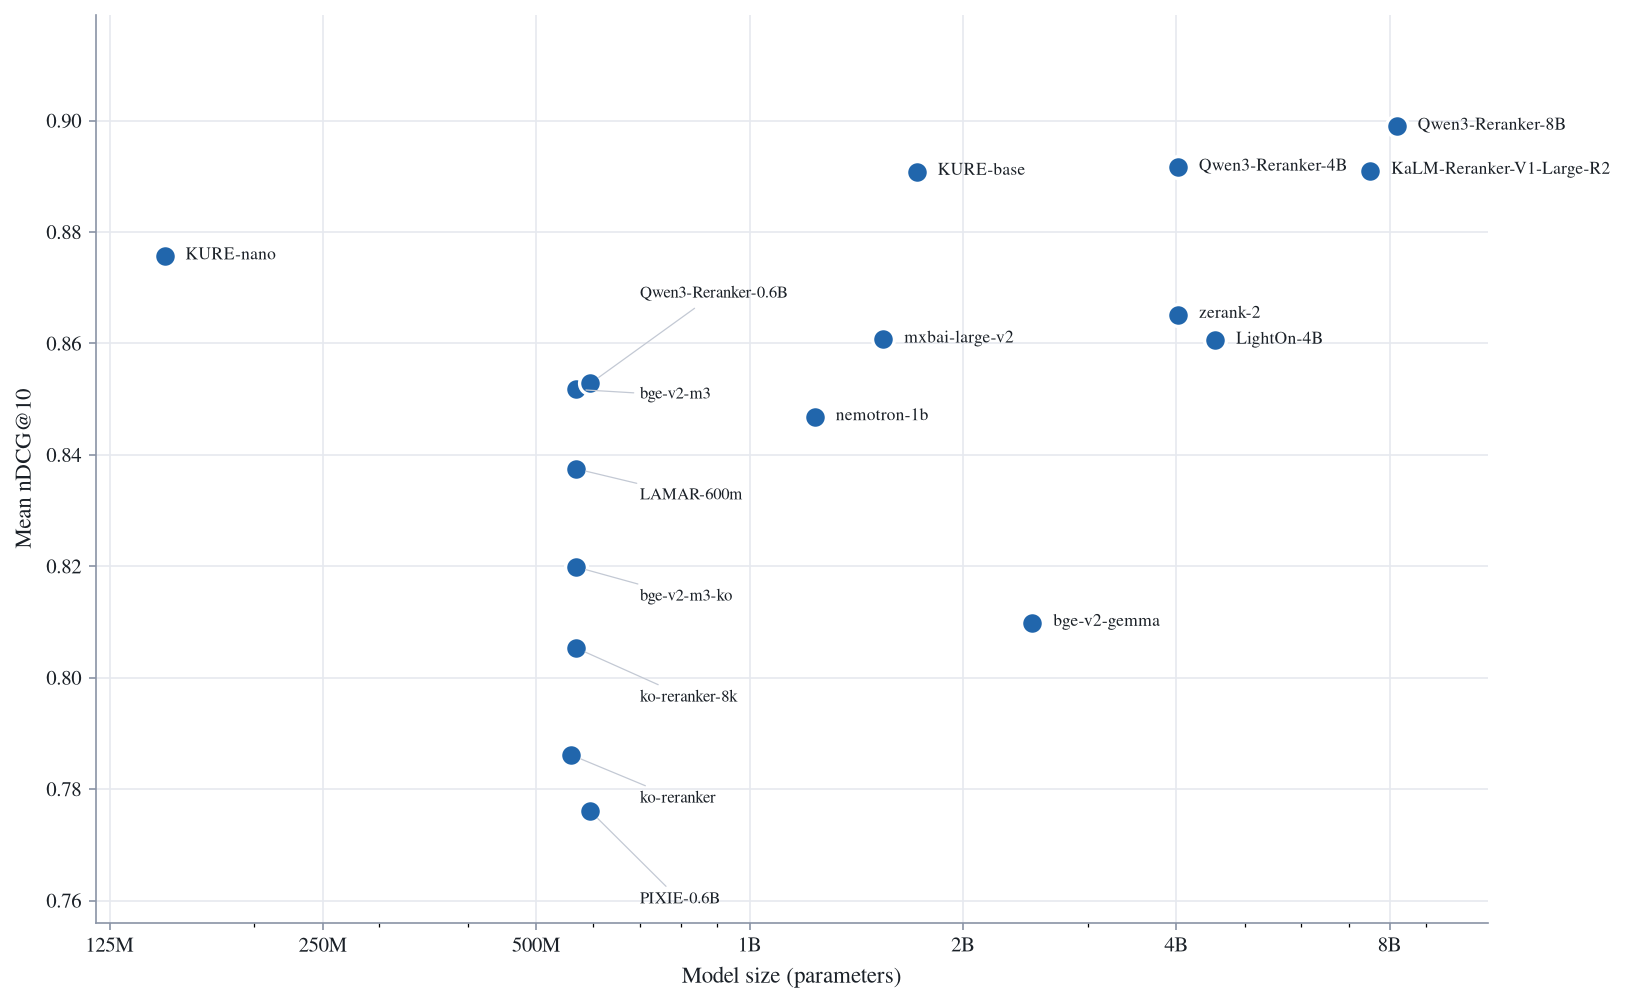
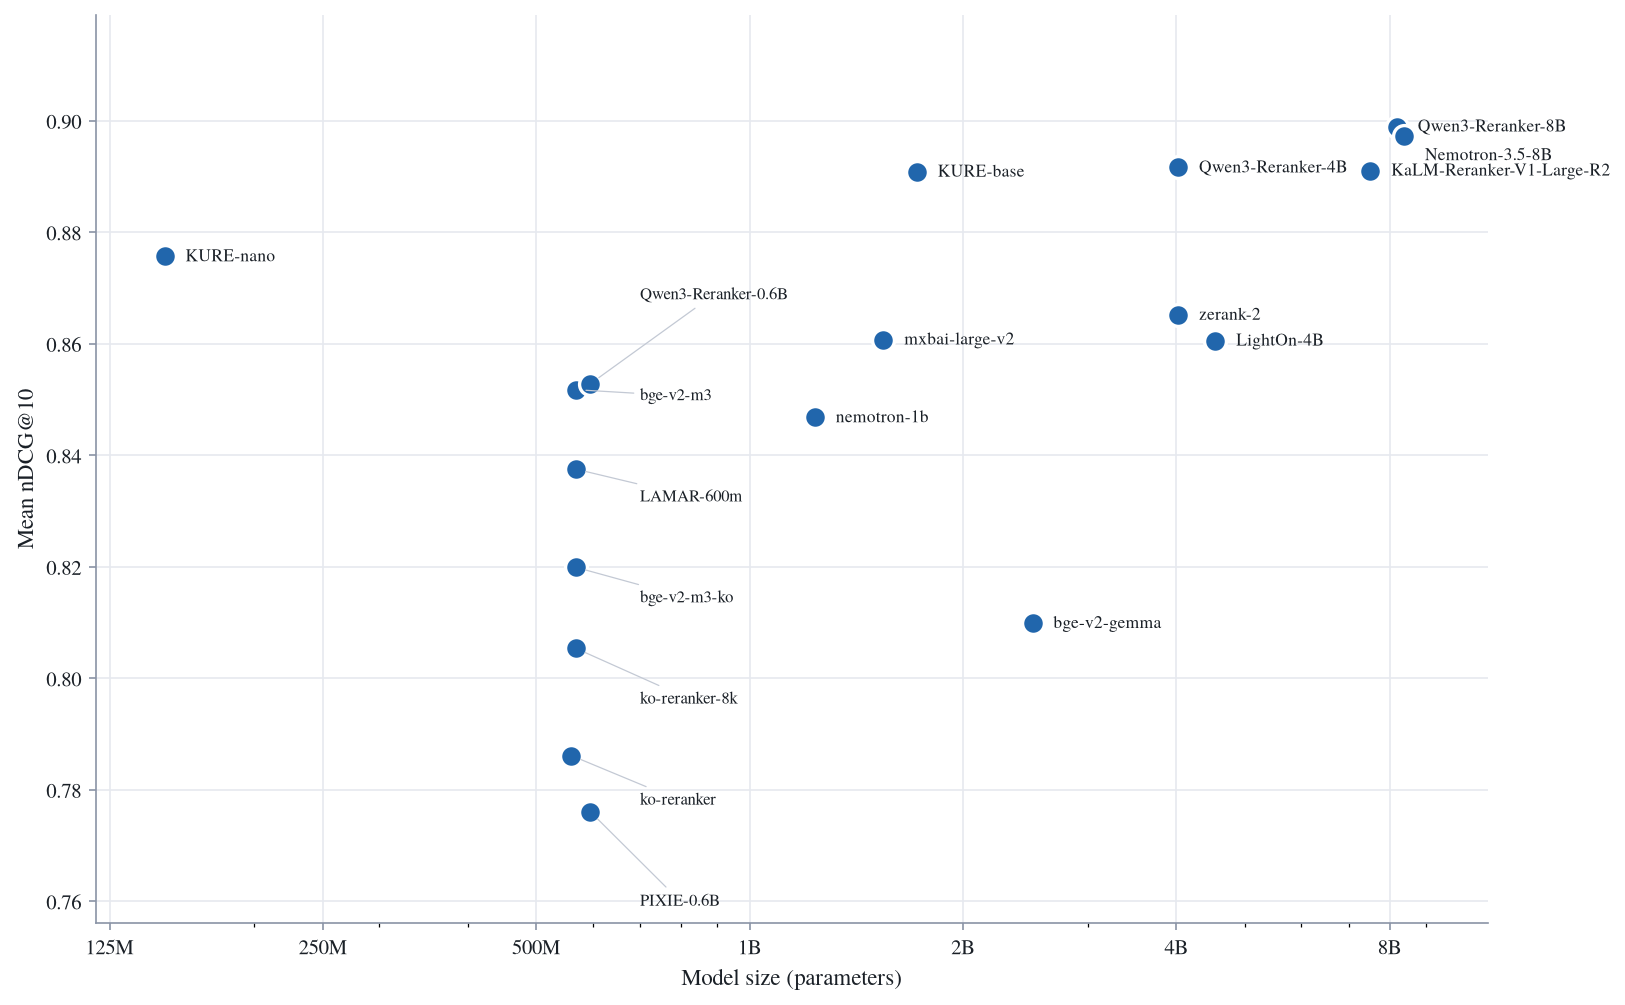
feat: add nvidia/Nemotron-3.5-Rerank-8B-BF16 results and update docs, figures

diff --git a/eval/plot_pps_vs_ndcg.py b/eval/plot_pps_vs_ndcg.py
@@ -33,7 +33,7 @@ SIZE_BINS = [
     (0.5, "< 0.5B", "#b8646e"),
     (1.0, "0.5–1B", "#6f9fc2"),
     (3.0, "1–3B", "#d6a55c"),
-    (float("inf"), "≥ 3B", "#4d4a7a"),
+    (float("inf"), "≥ 3B", "#5a52b0"),
 ]
 
 # 라벨용 축약명 (충돌·오버플로 완화). 없으면 basename.
@@ -56,12 +56,13 @@ SHORT = {
     "cross-encoder/ettin-reranker-1b-v1": "ettin-1b",
     "nlpai-lab/KURE-Reranker-nano": "KURE-Reranker-nano",
     "nlpai-lab/KURE-Reranker-base": "KURE-Reranker-base",
+    "nvidia/Nemotron-3.5-Rerank-8B-BF16": "Nemotron-3.5-8B",
 }
 
 # 점이 겹치는 모델의 라벨 오프셋(points). 없으면 점 오른쪽. dx<0 이면 점 왼쪽에 우측 정렬.
 OFFSET = {
     "zerank-2": (-16, -15, "center"),  # 점 바로 아래
-    "Qwen3-8B": (10, 5),
+    "Qwen3-8B": (-6, 14, "center"),  # 점 위 조금 왼쪽 (오른쪽은 Nemotron 라벨)
     "KaLM-R2": (14, 15, "center"),  # 점 위 조금 오른쪽 (오른쪽은 KURE-Reranker-base 라벨)
     "Qwen3-4B": (-14, -14, "center"),  # 점 바로 아래
     "mxbai-large-v2": (10, 6),
@@ -72,6 +73,7 @@ OFFSET = {
     "LAMAR-600m": (10, 0),
     "bge-v2-m3-ko": (-10, 0),
     "ko-reranker-8k": (-10, 0),
+    "Nemotron-3.5-8B": (20, 14, "center"),  # 점 위 조금 오른쪽 (오른쪽 아래는 KaLM-R2 라벨)
 }
 
 

diff --git a/eval/plot_size_vs_ndcg.py b/eval/plot_size_vs_ndcg.py
@@ -47,7 +47,11 @@ SHORT = {
     "cross-encoder/ettin-reranker-1b-v1": "ettin-1b",
     "nlpai-lab/KURE-Reranker-nano": "KURE-nano",
     "nlpai-lab/KURE-Reranker-base": "KURE-base",
+    "nvidia/Nemotron-3.5-Rerank-8B-BF16": "Nemotron-3.5-8B",
 }
+
+# 점이 겹치는 모델의 라벨 오프셋(points). 없으면 점 오른쪽 (10, 0).
+OFFSET = {"Nemotron-3.5-8B": (10, -9)}  # Qwen3-Reranker-8B 라벨 바로 아래
 
 
 def short(model):
@@ -73,7 +77,7 @@ def main():
     crowded = lambda x: 0.4 <= x <= 0.65  # noqa: E731
     for x, y, name in pts:
         if not crowded(x):
-            ax.annotate(name, (x, y), textcoords="offset points", xytext=(10, 0),
+            ax.annotate(name, (x, y), textcoords="offset points", xytext=OFFSET.get(name, (10, 0)),
                         ha="left", va="center", fontsize=8.4, color=INK)
 
     left = sorted([p for p in pts if crowded(p[0])], key=lambda p: -p[1])  # y 내림차순

diff --git a/eval/stage2_results.py b/eval/stage2_results.py
@@ -70,6 +70,7 @@ MODEL_SIZES = {
     "Qwen/Qwen3-Reranker-4B": 4_021_784_576,
     "Qwen/Qwen3-Reranker-0.6B": 595_776_512,
     "KaLM-Embedding/KaLM-Reranker-V1-Large-R2": 7_508_928_880,
+    "nvidia/Nemotron-3.5-Rerank-8B-BF16": 8_381_163_520,
 }
 
 

diff --git a/README.md b/README.md
@@ -65,6 +65,7 @@ uv run streamlit run leaderboard_reranker.py
 | Model | Params | Mean NDCG@10 | Mean PPS |
 |---|---|---|---|
 | [Qwen/Qwen3-Reranker-8B](https://huggingface.co/Qwen/Qwen3-Reranker-8B) | 8.2B | 0.8990 | 15.0 |
+| [nvidia/Nemotron-3.5-Rerank-8B-BF16](https://huggingface.co/nvidia/Nemotron-3.5-Rerank-8B-BF16) | 8.4B | 0.8972 | 22.4 |
 | [Qwen/Qwen3-Reranker-4B](https://huggingface.co/Qwen/Qwen3-Reranker-4B) | 4.0B | 0.8916 | 24.3 |
 | [KaLM-Embedding/KaLM-Reranker-V1-Large-R2](https://huggingface.co/KaLM-Embedding/KaLM-Reranker-V1-Large-R2) | 7.5B | 0.8910 | 25.3 |
 | [nlpai-lab/KURE-Reranker-base](https://huggingface.co/nlpai-lab/KURE-Reranker-base) | 1.7B | 0.8908 | 56.2 |
@@ -92,6 +93,7 @@ uv run streamlit run leaderboard_reranker.py
 | Model | Params | Ko-StrategyQA | AutoRAGRetrieval | PublicHealthQA | BelebeleRetrieval | MIRACLRetrieval | MrTidyRetrieval | MultiLongDocRetrieval | SQuADKorV1Retrieval | LawIRKo |
 |---|---|---|---|---|---|---|---|---|---|---|
 | Qwen/Qwen3-Reranker-8B | 8.2B | 0.8720 | 0.9653 | 0.8654 | 0.9785 | 0.8513 | 0.8416 | 0.8255 | 0.9897 | 0.9013 |
+| nvidia/Nemotron-3.5-Rerank-8B-BF16 | 8.4B | 0.8914 | 0.9686 | 0.8984 | 0.9835 | 0.8192 | 0.8262 | 0.7757 | 0.9885 | 0.9229 |
 | Qwen/Qwen3-Reranker-4B | 4.0B | 0.8733 | 0.9630 | 0.8442 | 0.9794 | 0.8559 | 0.8298 | 0.8161 | 0.9861 | 0.8766 |
 | KaLM-Embedding/KaLM-Reranker-V1-Large-R2 | 7.5B | 0.8796 | 0.9415 | 0.8633 | 0.9809 | 0.8382 | 0.8500 | 0.7970 | 0.9863 | 0.8824 |
 | nlpai-lab/KURE-Reranker-base | 1.7B | 0.8605 | 0.9870 | 0.8331 | 0.9757 | 0.8496 | 0.8252 | 0.8189 | 0.9907 | 0.8768 |
@@ -119,6 +121,7 @@ uv run streamlit run leaderboard_reranker.py
 | Model | Params | Ko-StrategyQA | AutoRAGRetrieval | PublicHealthQA | BelebeleRetrieval | MIRACLRetrieval | MrTidyRetrieval | MultiLongDocRetrieval | SQuADKorV1Retrieval | LawIRKo |
 |---|---|---|---|---|---|---|---|---|---|---|
 | Qwen/Qwen3-Reranker-8B | 8.2B | 16.5 | 7.4 | 15.3 | 20.5 | 25.0 | 26.6 | 0.7 | 10.8 | 12.4 |
+| nvidia/Nemotron-3.5-Rerank-8B-BF16 | 8.4B | 24.0 | 8.7 | 21.7 | 33.2 | 38.3 | 45.2 | 0.7 | 14.5 | 15.3 |
 | Qwen/Qwen3-Reranker-4B | 4.0B | 26.2 | 11.8 | 25.6 | 34.5 | 40.1 | 42.8 | 1.1 | 17.1 | 19.9 |
 | KaLM-Embedding/KaLM-Reranker-V1-Large-R2 | 7.5B | 28.6 | 12.4 | 25.4 | 36.9 | 39.6 | 43.8 | 0.8 | 18.7 | 21.4 |
 | nlpai-lab/KURE-Reranker-base | 1.7B | 60.9 | 27.9 | 58.5 | 77.9 | 91.7 | 99.7 | 2.5 | 39.9 | 46.2 |
